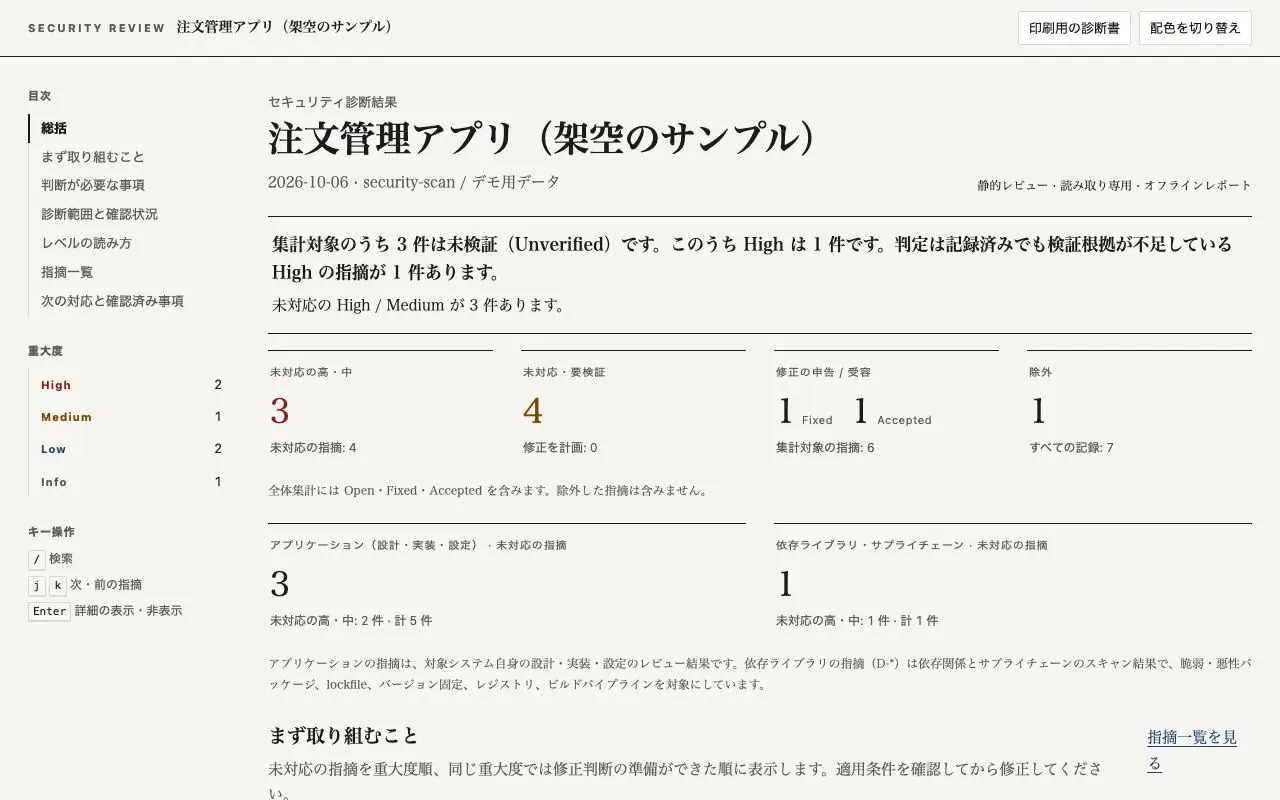
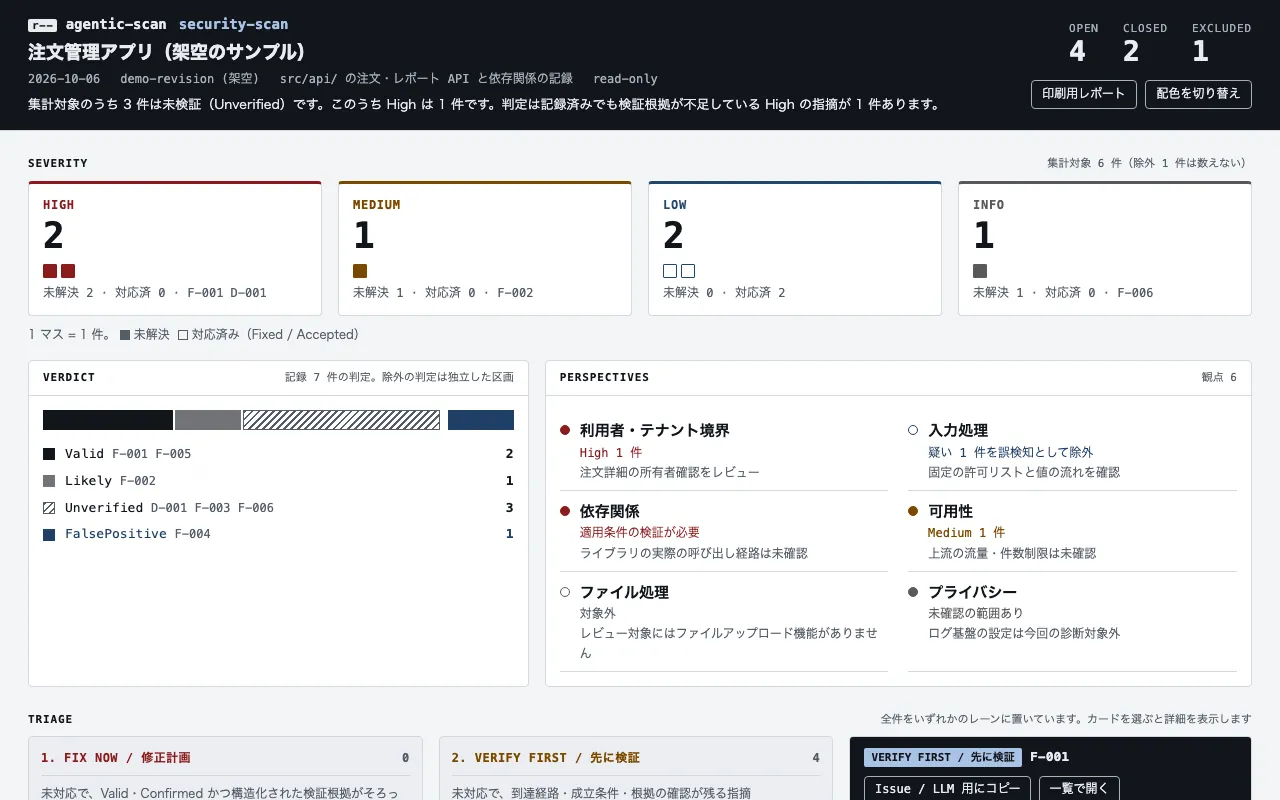
feat(site): show the console-triage dashboards in the output samples
Replace the four dashboard screenshots with captures of the new layout
and describe what they show in the alt text.

diff --git a/site/index.html b/site/index.html
@@ -140,16 +140,16 @@
         <button role="tab" id="tab-prompt" aria-controls="panel-prompt" aria-selected="false" tabindex="-1">prompt-scan</button>
       </div>
       <div class="panel" role="tabpanel" id="panel-sec" aria-labelledby="tab-sec">
-        <figure><div class="shot"><picture><source media="(max-width: 700px)" srcset="assets/security-scan-m.webp" width="780" height="1280"><img loading="lazy" src="assets/security-scan.webp" srcset="assets/security-scan.webp 1280w, assets/security-scan@2x.webp 2560w" sizes="(min-width: 1200px) 1120px, 92vw" width="1280" height="800" alt="security-scan のダッシュボード。総括、重大度別の件数、まず取り組むこと"></picture></div><figcaption>未検証の High を総括の一行目で知らせる。架空の注文管理アプリの例。</figcaption></figure>
+        <figure><div class="shot"><picture><source media="(max-width: 700px)" srcset="assets/security-scan-m.webp" width="780" height="1280"><img loading="lazy" src="assets/security-scan.webp" srcset="assets/security-scan.webp 1280w, assets/security-scan@2x.webp 2560w" sizes="(min-width: 1200px) 1120px, 92vw" width="1280" height="800" alt="security-scan のダッシュボード。未解決・対応済み・除外の件数を出す帯、1 件 1 マスの重大度タイル、判定と観点のパネル"></picture></div><figcaption>未検証の High を総括の一行目で知らせる。架空の注文管理アプリの例。</figcaption></figure>
       </div>
       <div class="panel" role="tabpanel" id="panel-ux" aria-labelledby="tab-ux">
-        <figure><div class="shot"><picture><source media="(max-width: 700px)" srcset="assets/ux-scan-m.webp" width="780" height="1280"><img loading="lazy" src="assets/ux-scan.webp" srcset="assets/ux-scan.webp 1280w, assets/ux-scan@2x.webp 2560w" sizes="(min-width: 1200px) 1120px, 92vw" width="1280" height="800" alt="ux-scan のダッシュボード。主要タスクの完了を妨げる問題の要約と、優先順位つきの指摘"></picture></div><figcaption>指摘ごとにファイルと行、修正方針。架空のタスク管理アプリの例。</figcaption></figure>
+        <figure><div class="shot"><picture><source media="(max-width: 700px)" srcset="assets/ux-scan-m.webp" width="780" height="1280"><img loading="lazy" src="assets/ux-scan.webp" srcset="assets/ux-scan.webp 1280w, assets/ux-scan@2x.webp 2560w" sizes="(min-width: 1200px) 1120px, 92vw" width="1280" height="800" alt="ux-scan のダッシュボード。未解決・対応済み・除外の件数を出す帯、1 件 1 マスの重大度タイル、判定と観点のパネル"></picture></div><figcaption>指摘ごとにファイルと行、修正方針。架空のタスク管理アプリの例。</figcaption></figure>
       </div>
       <div class="panel" role="tabpanel" id="panel-arch" aria-labelledby="tab-arch">
-        <figure><div class="shot"><picture><source media="(max-width: 700px)" srcset="assets/architecture-scan-m.webp" width="780" height="1280"><img loading="lazy" src="assets/architecture-scan.webp" srcset="assets/architecture-scan.webp 1280w, assets/architecture-scan@2x.webp 2560w" sizes="(min-width: 1200px) 1120px, 92vw" width="1280" height="800" alt="architecture-scan のダッシュボード。違反した設計ルールと、期待される状態と実際の状態"></picture></div><figcaption>どの設計ルールに反しているかを、期待と実際で示す。架空のショップの例。</figcaption></figure>
+        <figure><div class="shot"><picture><source media="(max-width: 700px)" srcset="assets/architecture-scan-m.webp" width="780" height="1280"><img loading="lazy" src="assets/architecture-scan.webp" srcset="assets/architecture-scan.webp 1280w, assets/architecture-scan@2x.webp 2560w" sizes="(min-width: 1200px) 1120px, 92vw" width="1280" height="800" alt="architecture-scan のダッシュボード。未解決・対応済み・除外の件数を出す帯、1 件 1 マスの重大度タイル、判定と観点のパネル"></picture></div><figcaption>どの設計ルールに反しているかを、期待と実際で示す。架空のショップの例。</figcaption></figure>
       </div>
       <div class="panel" role="tabpanel" id="panel-prompt" aria-labelledby="tab-prompt">
-        <figure><div class="shot"><picture><source media="(max-width: 700px)" srcset="assets/prompt-scan-m.webp" width="780" height="1280"><img loading="lazy" src="assets/prompt-scan.webp" srcset="assets/prompt-scan.webp 1280w, assets/prompt-scan@2x.webp 2560w" sizes="(min-width: 1200px) 1120px, 92vw" width="1280" height="800" alt="prompt-scan のダッシュボード。プロンプトの欠陥と改善提案の一覧"></picture></div><figcaption>壊れているもの(欠陥)と、より良くできるもの(改善提案)を分けて報告。</figcaption></figure>
+        <figure><div class="shot"><picture><source media="(max-width: 700px)" srcset="assets/prompt-scan-m.webp" width="780" height="1280"><img loading="lazy" src="assets/prompt-scan.webp" srcset="assets/prompt-scan.webp 1280w, assets/prompt-scan@2x.webp 2560w" sizes="(min-width: 1200px) 1120px, 92vw" width="1280" height="800" alt="prompt-scan のダッシュボード。未解決・対応済み・除外の件数を出す帯、1 件 1 マスの重大度タイル、判定と観点のパネル"></picture></div><figcaption>壊れているもの(欠陥)と、より良くできるもの(改善提案)を分けて報告。</figcaption></figure>
       </div>
     </div>
 
